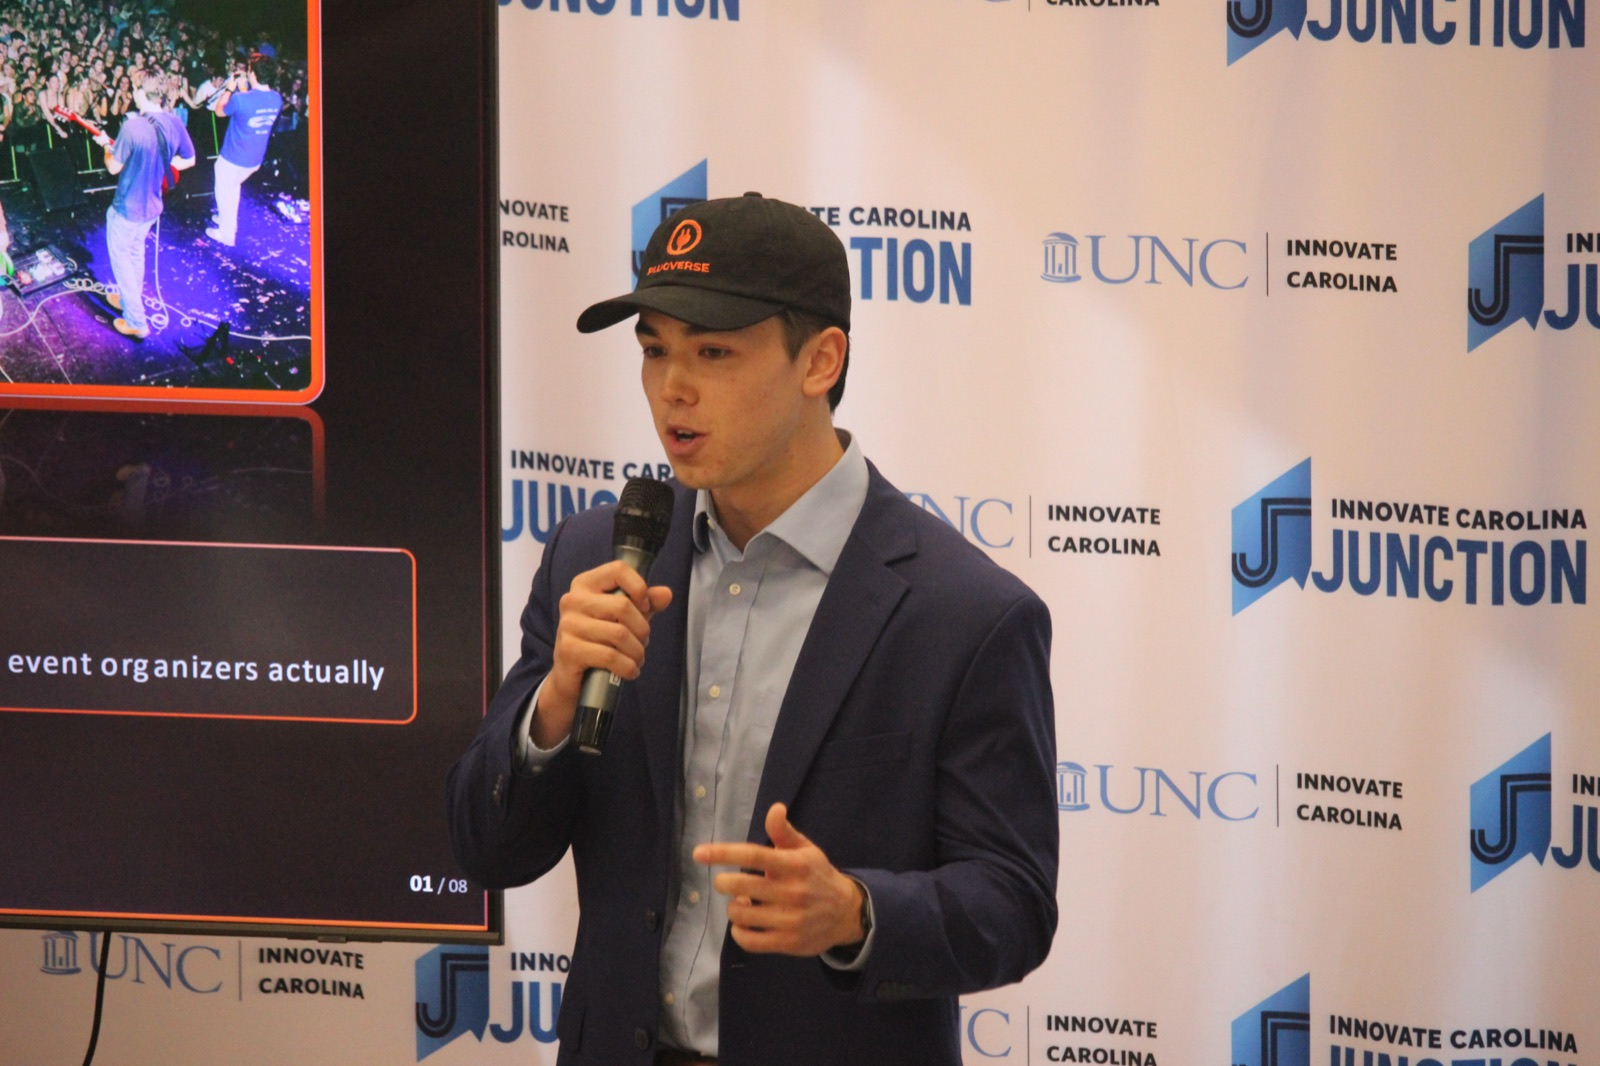
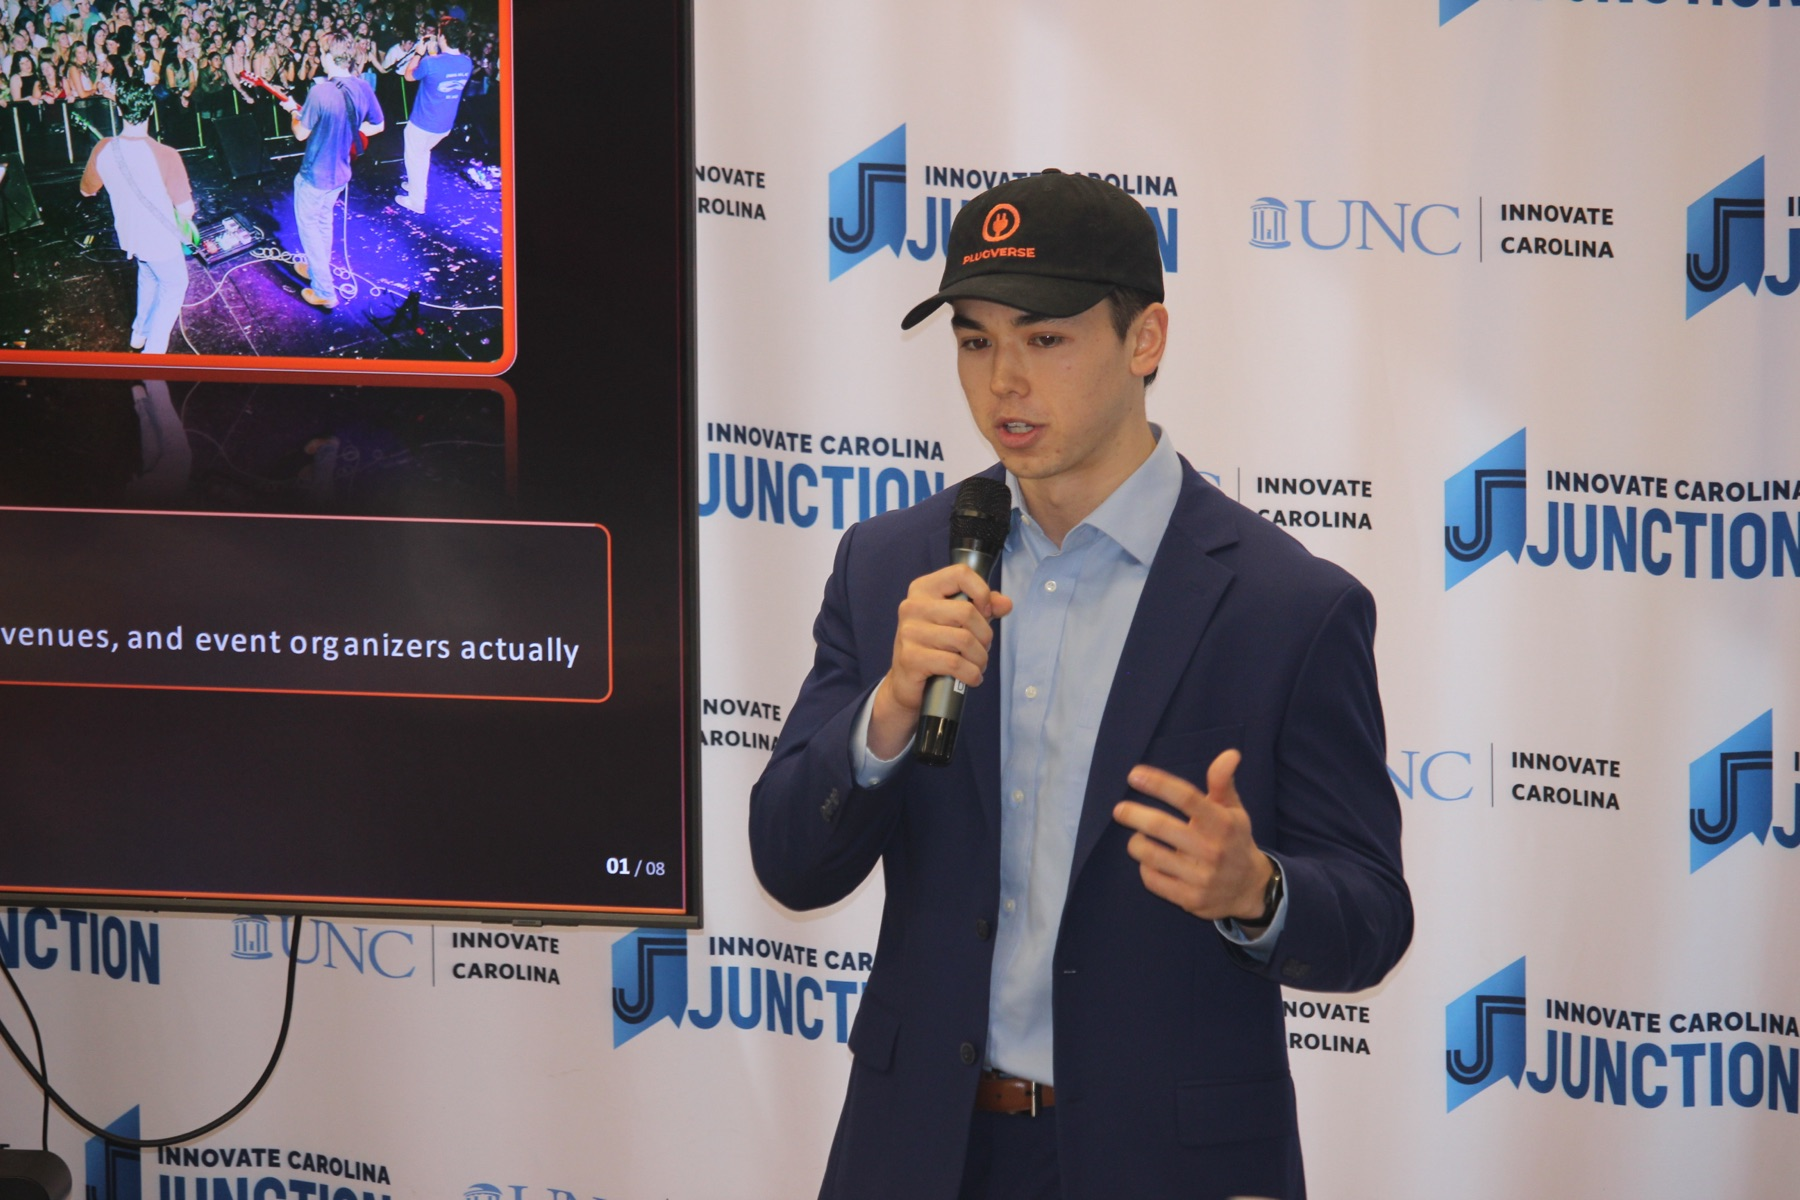
Swap hero image to hero_v1 (compressed) — Cooper already right-framed, revert manual crop
hero_v1.JPG was 5.3MB; compressed via sips to 374KB and overwrote
photos/hero.jpg in place (HTML refs unchanged). Original hero_v1.JPG
removed.

CSS object-position reverted from 78% / scale 1.18 → 60% / 1.06
since v1 is already framed with Cooper on the right side, balancing
the left-aligned 'Cooper Delo.' hero text without needing manual
crop overrides.

diff --git a/shell.css b/shell.css
@@ -761,9 +761,9 @@ body.has-page-bg .ambient { display: none; }
 }
 .hero-bg img {
   position: absolute; inset: 0; width: 100%; height: 100%;
-  object-fit: cover; object-position: 78% center;
+  object-fit: cover; object-position: 60% center;
   filter: saturate(0.85) contrast(1.0) brightness(0.78) sepia(0.22) hue-rotate(-4deg);
-  transform: scale(1.18);
+  transform: scale(1.06);
   transition: transform 12s linear;
   will-change: transform;
 }
